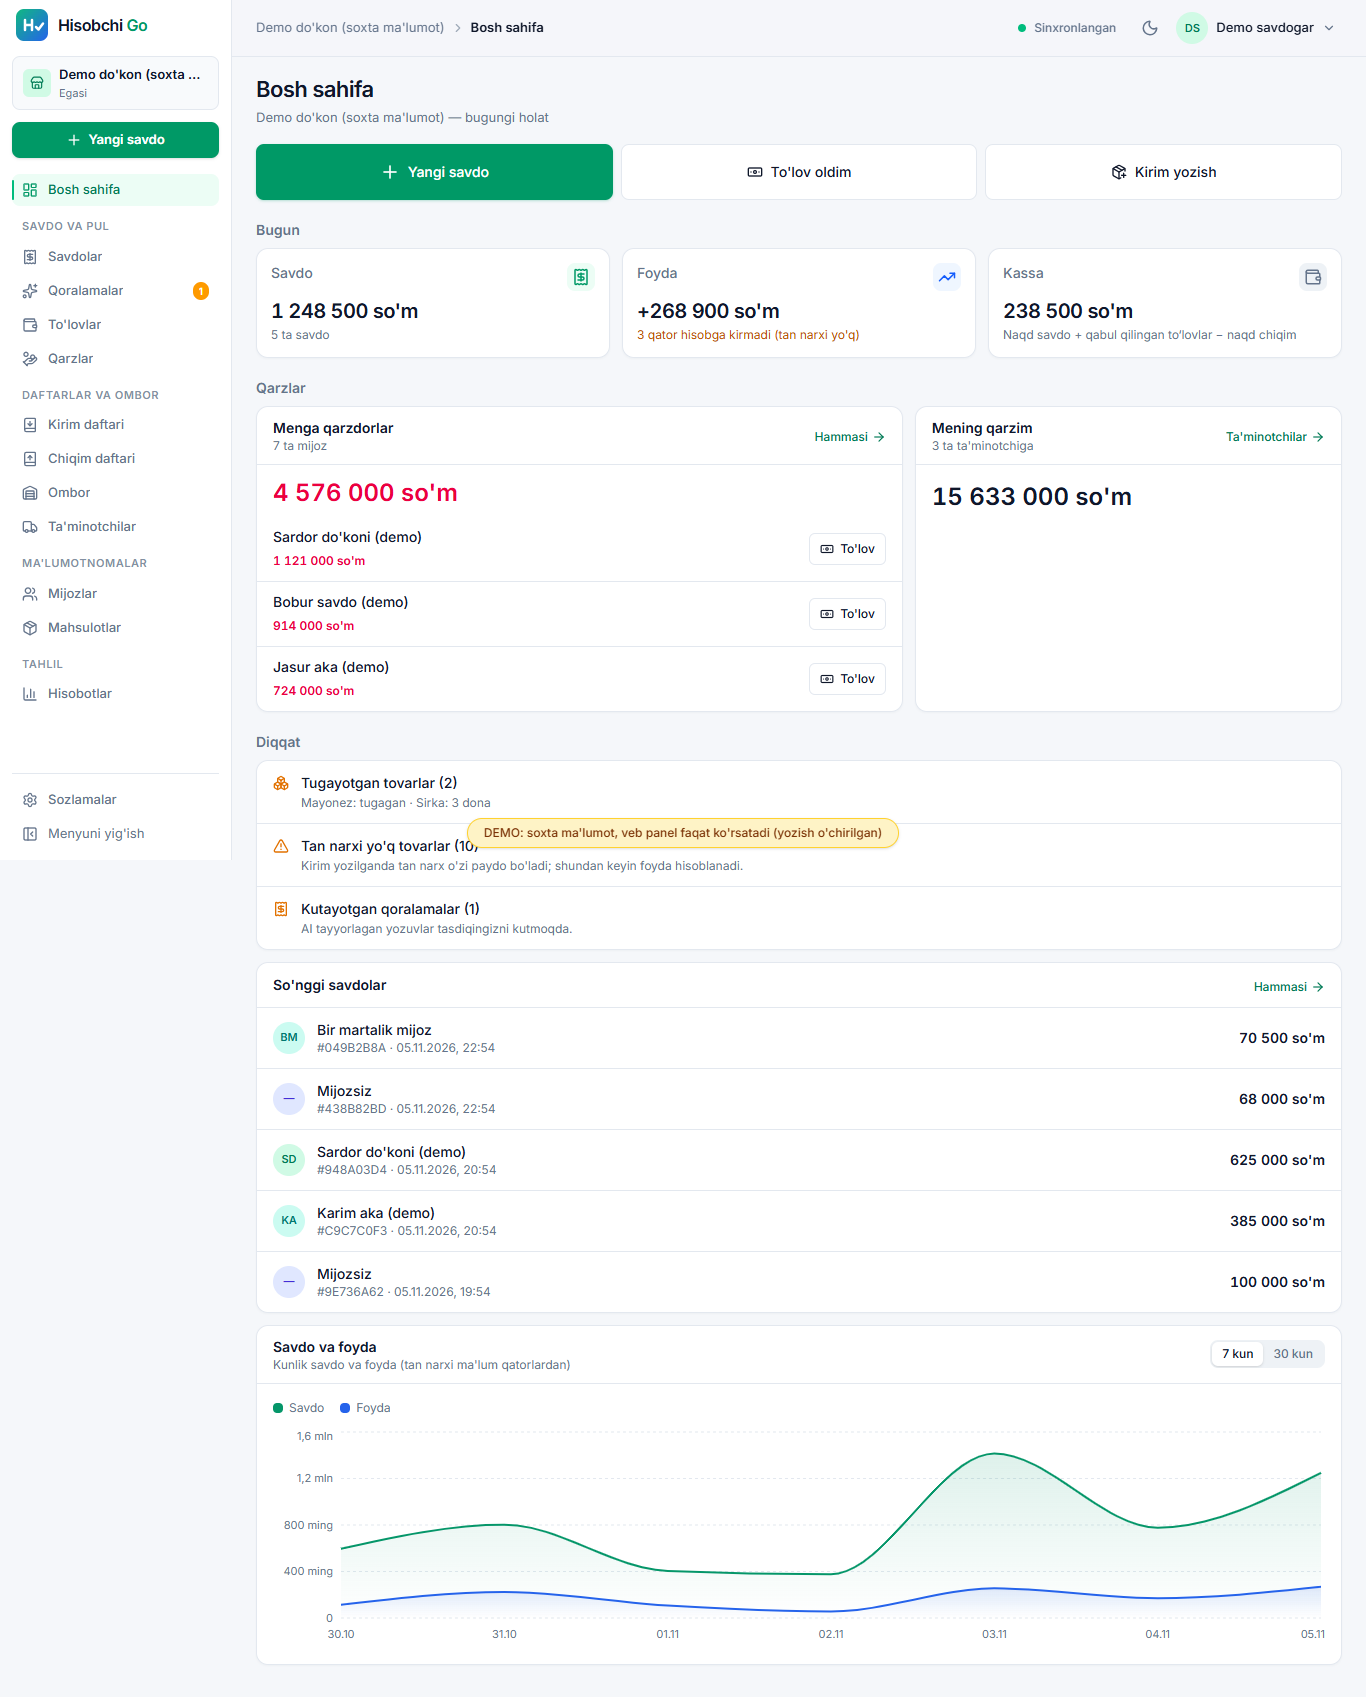
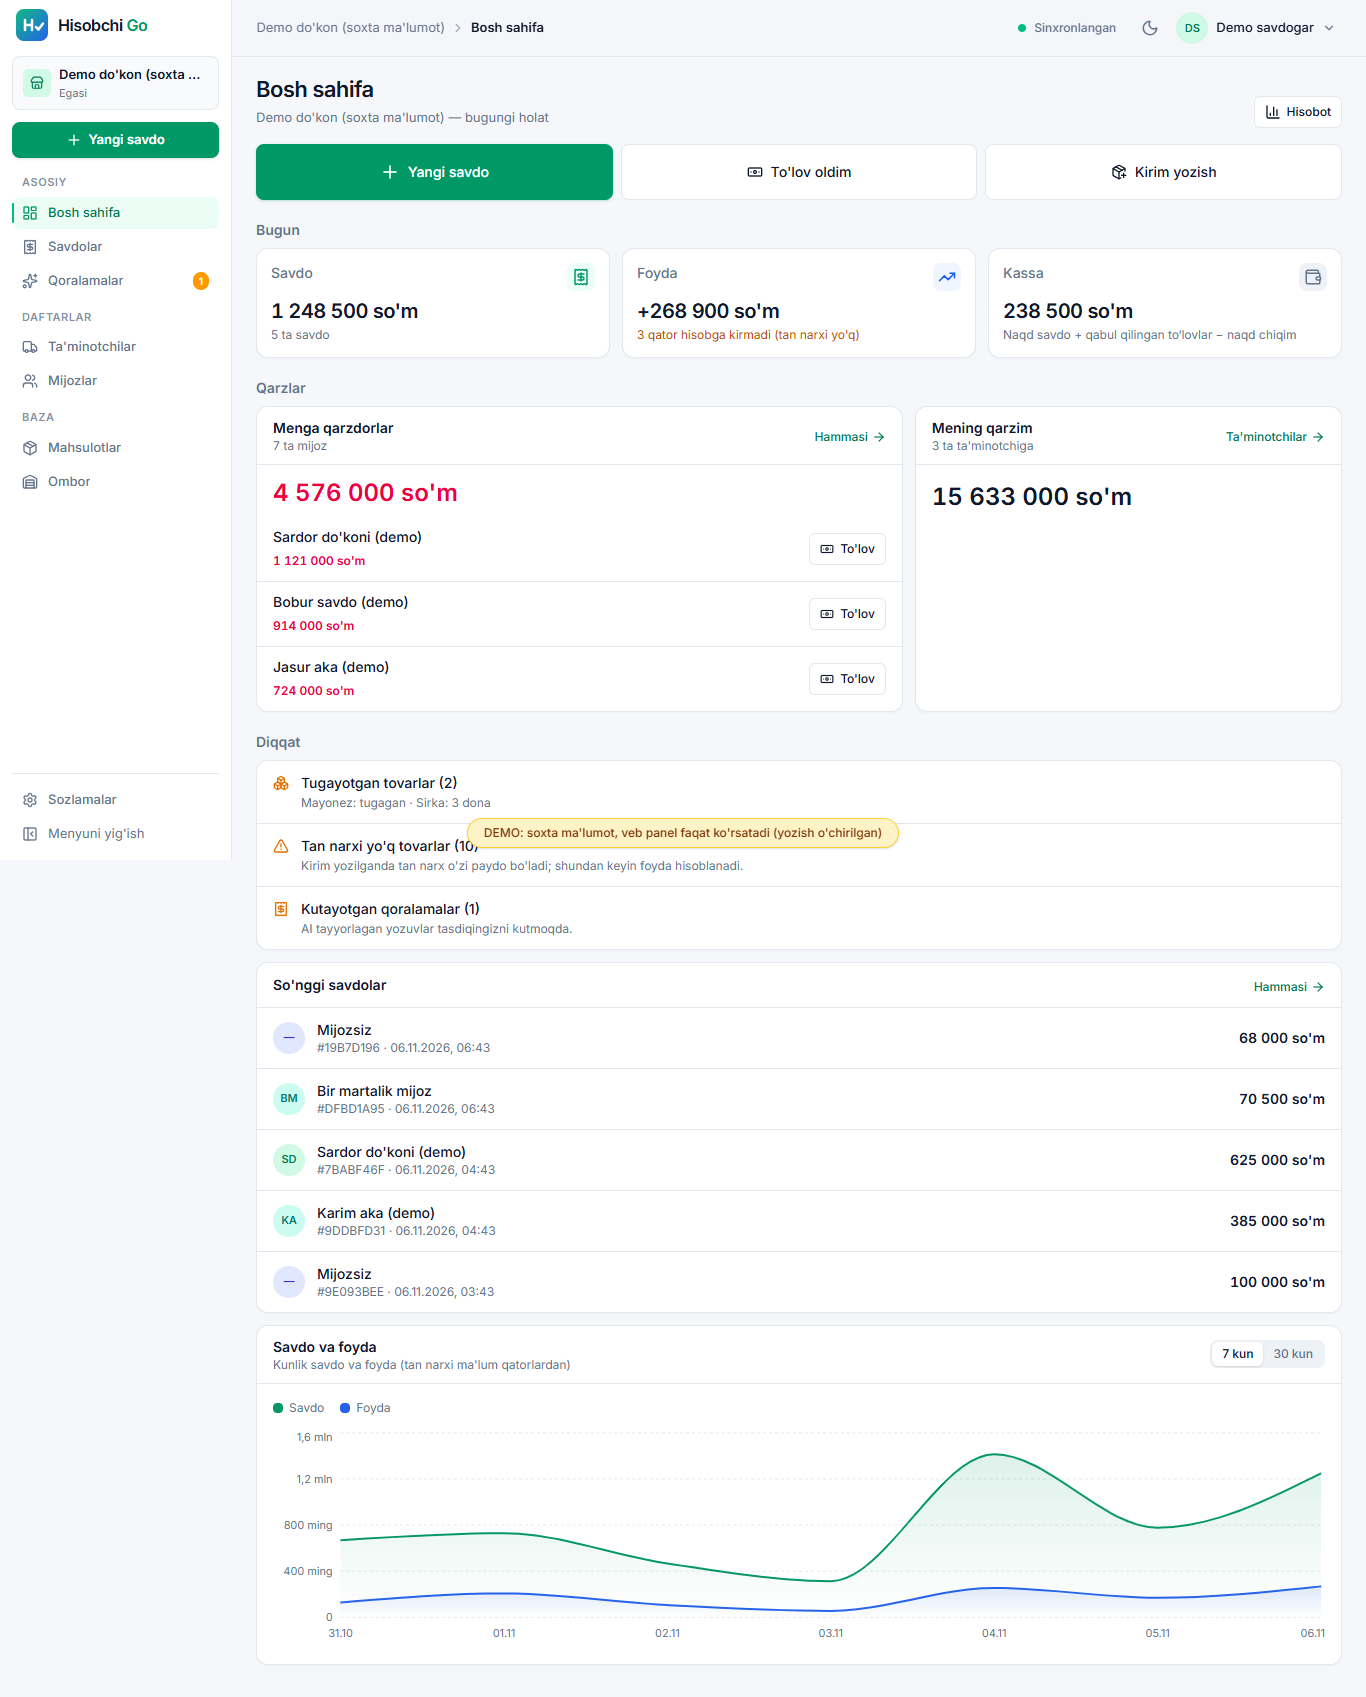
MENYU M6: Demo, skrinshotlar (oldin/keyin), hujjat (#29)
* M6: demo ma'lumot (ombor harakatlari), skrinshot skripti yangi sahifalar uchun

* M6: demo, skrinshotlar (oldin/keyin), ARXITEKTURA/LOKAL/HOLAT-MENYU

---------

diff --git a/apps/web/src/lib/demo/seed.ts b/apps/web/src/lib/demo/seed.ts
@@ -95,7 +95,7 @@ export function buildDemoTables(now: Date = new Date(), newId: () => string = ()
   const draftCalc = calculateDocument(draftLines.map((l) => ({ qtyMilli: milli(l.qty), unitPrice: BigInt(pid(l.product).meta.salePrice) })));
   const dilnoza = customers.find((c) => c.key === 'dilnoza');
 
-  return {
+  const tables: Tables = {
     shops: [shop],
     shop_members: [{ shop_id: shopId, user_id: DEMO_USER_ID, role: 'owner', created_at: shop.created_at }],
     customers: [
@@ -153,4 +153,20 @@ export function buildDemoTables(now: Date = new Date(), newId: () => string = ()
       },
     ],
   };
+
+  // Ombor harakatlari (Chiqim ko'rinishi): har savdo qatori — 'sale' harakati; ikkita inventarizatsiya tuzatishi
+  const docAt = new Map(tables.documents!.map((d) => [d.id as string, d.created_at as string]));
+  const saleMoves: Row[] = tables.document_lines!
+    .filter((l) => l.product_id && docAt.has(l.document_id as string))
+    .map((l) => ({
+      id: newId(), shop_id: shopId, product_id: l.product_id, kind: 'sale', qty_milli: (-BigInt(l.qty_milli as string)).toString(),
+      document_id: l.document_id, note: null, created_at: docAt.get(l.document_id as string),
+    }));
+  const someProducts = products.slice(0, 2);
+  const adjustments: Row[] = someProducts.map((p, i) => ({
+    id: newId(), shop_id: shopId, product_id: p.id, kind: 'adjustment', qty_milli: (i === 0 ? -2000n : 1000n).toString(),
+    document_id: null, note: i === 0 ? 'Inventarizatsiya: singan' : 'Inventarizatsiya: ortiqcha chiqdi', created_at: iso(-2),
+  }));
+  tables.stock_movements = [...saleMoves, ...adjustments];
+  return tables;
 }

diff --git a/docs/QARORLAR.md b/docs/QARORLAR.md
@@ -86,6 +86,7 @@ Har qaror: sana, nima, nega. Yangi qaror pastga qo'shiladi.
 - STT/OCR: Gemini sinaladi (H2, T7); natija bo'yicha tanlanadi.
 - Narx: 1-oy bepul, keyin ~200 000 so'm/oy — faraz, H3 va 50 suhbatda tekshiriladi.
 - Prototip kodi egaligi: Humoyun bilan yozma kelishuv kerak.
+| 06.11.2026 | **Demo va skrinshotlar (MENYU-DAFTAR M6):** demo seed'ga `stock_movements` qo'shildi (har savdo qatori — «sale» harakati, ikki inventarizatsiya tuzatishi), shunda Ombor → Chiqim demoda ko'rinadi. `npm run screenshots` yangi sahifalar ro'yxati bilan (mijoz va ta'minotchi varag'i ro'yxatdan birinchi qatorni bosib olinadi; mavjud bo'lmagan sahifa o'tkaziladi). `docs/ekranlar/` oldin/keyin yangilandi | Asoschi talabi |
 | 06.11.2026 | **Ombor ichida Kirim va Chiqim (MENYU-DAFTAR M5):** `/warehouse` da uch ko'rinish (`?tab=`): **Qoldiq** (avvalgi jadval, «Tuzatish» = inventarizatsiya, manfiy qoldiq ogohlantirishi), **Kirim** (kirimlar kun bo'yicha, davr/ta'minotchi/qidiruv, tovar qatorlari, «Kirim yozish»), **Chiqim** (savdodan chiqqan tovar `stock_movements` dan: savdo, bekor qilingan savdo, tuzatish = yo'qotish/ortiqcha; tovar bo'yicha davr jami). Eski Kirim/Chiqim daftari mantig'i (davr tanlash, kun guruhlash, bekor qilinganlar jamga kirmaydi) ko'chirildi, qayta yozilmadi; har ko'rinishda «Eksport» (CSV). `/books/in` va `/books/out` → `/warehouse?tab=in` / `?tab=out`. Boshlang'ich qarz Kirim ro'yxatiga va jamiga kirmaydi (ta'minotchi varag'ida alohida qator). Kirim tabida kirimni bekor qilish yo'q: u ta'minotchi varag'ida (teskari yozuv) | Asoschi talabi: kirim va chiqim ombor funksiyasi |
 | 06.11.2026 | **Ta'minotchilar daftari (MENYU-DAFTAR M4):** `/suppliers` = «Mening qarzim» kartasi (jami qarz, qarzim bor ta'minotchilar soni) + ro'yxat (qidiruv, filtr Qarzim bor/Hammasi/Arxiv, tartib); ta'minotchini bosganda `/suppliers/[id]` — LedgerSheet. «Kirim yozish» (`/purchases/new`, varaqdan ta'minotchi oldindan tanlangan) va «To'lov berdim» (`record_supplier_payment`, sana, usul, izoh; qarzdan oshmaydi) shu yerda. Avvalgi sahifaning barcha imkoniyati saqlandi: qo'shish (boshlang'ich qarz bilan), tahrirlash, arxivlash/qaytarish (varaq tepasida), kirim qo'shish. Kirim va boshlang'ich qarzni bekor qilish `reverse_purchase`, to'lovni `void_supplier_payment` (teskari yozuv). Ro'yxat qarzi ikki yo'l bilan tekshiriladi (`supplierTotals` va core `partnerBalance`) | Asoschi talabi |
 | 06.11.2026 | **Mijozlar daftari (MENYU-DAFTAR M3):** `/customers` = qarz bo'yicha ro'yxat + umumiy qarz kartasi (Jami qarz, Qarzdorlar, 30 kundan oshgan qarz); mijozni bosganda `/customers/[id]` — LedgerSheet. «Qarzlar» va «To'lovlar» bo'limlari shu yerga ko'chdi: qarz filtri (`?filter=debt`), «To'lov oldim» (ro'yxat tepasida va varaqda), to'lovni bekor qilish (varaq qatorida, teskari yozuv). «Yangi savdo» varaqdan mijoz oldindan tanlangan holda ochiladi (`/sales/new?customer=`) | Asoschi talabi |

diff --git a/docs/ARXITEKTURA.md b/docs/ARXITEKTURA.md
@@ -196,3 +196,13 @@ Hozir faqat bitta manbali raqam bor: Aisha STT ~425 so'm/daqiqa (loyiha hujjatid
 - Bluetooth printer modeli (savdogarlar qaysi printerdan foydalanadi).
 - Google Play va Apple hisoblari narxi va kim ochishi.
 - Veb (PC) versiya kerakli darajada qulay bo'lishi uchun qaysi ekranlar alohida moslanadi.
+
+## Veb panel: menyu va daftar (MENYU-DAFTAR, 06.11.2026)
+
+Menyu: **Asosiy** (Bosh sahifa, Savdolar, Qoralamalar) · **Daftarlar** (Ta'minotchilar, Mijozlar) · **Baza** (Mahsulotlar, Ombor) · Sozlamalar. To'lovlar, Qarzlar, Kirim/Chiqim daftari va Hisobotlar bo'lim emas: to'lov va qarz mijoz/ta'minotchi varag'ida, kirim va chiqim Ombor ichida (`/warehouse?tab=in|out`), hisobot `/dashboard/report` (Bosh sahifadagi tugma). Eski URL'lar yo'naltiriladi (`lib/redirects.ts`, `/books/*` — `books/[kind]/page.tsx`).
+
+Daftar varag'i:
+- **core** `packages/core/src/ledger.ts`: `ledgerRows` (qator = kun; Eski → Ostatka zanjiri; bekor qilingan qatorda qoladi, jamiga kirmaydi; ochilish qoldig'i birinchi qator va Tovar jamiga kirmaydi), `assertLedgerMatches`; `aged-debt.ts`: 30+ kunlik qarz (FIFO).
+- **ikkinchi yo'l**: PostgreSQL `partner_statement` (butun davr Ostatka'si); mos kelmasa varaq yozishni to'xtatadi. SQL'ga yetib bo'lmasa core `partnerBalance` bilan mahalliy tekshiruv.
+- **web**: `components/ledger/LedgerSheet.tsx` (bitta komponent, mijoz/ta'minotchi sozlamasi `lib/ledgerView.ts`), ulagichlar `CustomerLedger.tsx` / `SupplierLedger.tsx`, ma'lumot `lib/data/partnerLedger.ts` va `supplierPayments.ts`, ro'yxatlar `lib/customerBook.ts` / `lib/supplierBook.ts`. Yangi jadval va migratsiya yo'q.
+- **ruxsat**: `can(role, action)` (`lib/permissions.ts`) — yagona nuqta; rollar keyin qo'shilganda faqat shu jadval o'zgaradi.

diff --git a/docs/HOLAT-MENYU.md b/docs/HOLAT-MENYU.md
@@ -1,0 +1,18 @@
+# MENYU-DAFTAR holati (06.11.2026)
+
+Har bosqich `main` dan alohida PR, hech biri merge qilinmagan. Migratsiya **yo'q** (hammasi mavjud jadval/RPC'lar).
+
+| Bosqich | PR | Holat |
+|---|---|---|
+| M1 Menyu va yo'naltirishlar, `can()` | #24 | tayyor |
+| M2 LedgerSheet + core `ledgerRows`, ikkinchi yo'l | #25 | tayyor |
+| M3 Mijozlar daftari (+ `agedDebt`) | #26 | tayyor |
+| M4 Ta'minotchilar daftari | #27 | tayyor |
+| M5 Ombor ichida Kirim/Chiqim | #28 | tayyor |
+| M6 Demo, skrinshot, hujjat | M6 PR | tayyor |
+
+Merge tartibi: M1 → M2 → M3 → M4 → M5 → M6. M2–M5 umumiy fayllari bir xil matn bilan; konflikt faqat `docs/QARORLAR.md` oxirida (ikkala tomonni qoldiring) va M3 da `packages/core/src/index.ts` (M2+M3 qatorlari).
+Birlashtirilgan holat (M1–M6) lokalda `npm run typecheck` va `npm test` yashil, demo brauzerda ko'rildi.
+
+Sinalmagan: haqiqiy Supabase (tez yozuv: `post_sale` + `record_payment`, ta'minotchi to'lovi, bekor qilishlar, `partner_statement` solishtiruvi), haqiqiy telefon, Chiqim tabi haqiqiy `stock_movements` bilan, Web Share (hozir faqat nusxalash/chop etish).
+Ochiq masalalar: mijoz uchun boshlang'ich qarz (ochilish qoldig'i) yo'q — 009 faqat ta'minotchi uchun, mijozga alohida migratsiya kerak (asoschi qarori); ta'minotchida tezkor qatordan tovar summasi yozib bo'lmaydi (`post_purchase` tovar talab qiladi).

diff --git a/docs/ekranlar/README.md b/docs/ekranlar/README.md
@@ -2,8 +2,9 @@
 
 Soxta demo ma'lumot bilan, telefon (390 px) va kompyuter (1366 px) ko'rinishida. Haqiqiy mijoz, telefon raqami va qarz yo'q.
 
-- `*-oldin.png`: `main` holati (PANEL-1/2 PR'larisiz), kengaytirilgan demo ma'lumot bilan.
-- `*-keyin.png`: PANEL-1/2 PR'lari (#19 Yangi savdo, #20 Bosh sahifa, #21 Ta'minotchi va kirim, #22 Birliklar) birlashtirilgan holat. Bu yig'ma faqat lokalda sinov uchun yig'ilgan, `main` ga yozilmagan.
+- `*-oldin.png`: `main` holati (MENYU-DAFTAR PR'larisiz). `mijoz-daftari`, `taminotchi-daftari` va `hisobot` oldin holatida yo'q yoki eski ko'rinishda.
+- `*-keyin.png`: MENYU-DAFTAR M1–M5 PR'lari (#24–#28) birlashtirilgan holat. Bu yig'ma faqat lokalda skrinshot uchun yig'ilgan, `main` ga yozilmagan.
+- `kirim-daftari-*-oldin.png` — eski Kirim daftari (endi `ombor-kirim-*-keyin.png`).
 
 Qayta olish:
 

diff --git a/docs/LOKAL.md b/docs/LOKAL.md
@@ -59,3 +59,7 @@ Remove-Item -Recurse -Force node_modules, apps/web/.next
 npm ci
 npm run check
 ```
+
+## Skrinshotlar (demo)
+
+`npm run screenshots -- keyin` (yoki `oldin`) telefon va kompyuter ko'rinishida demo sahifalarini `docs/ekranlar/` ga yozadi: Bosh sahifa, Hisobot, Yangi savdo, Mijozlar va mijoz varag'i, Ta'minotchilar va varaq, Kirim yozish, Ombor (Qoldiq/Kirim/Chiqim), Sozlamalar. Mavjud bo'lmagan sahifa (eski holat) o'tkazib yuboriladi. Chrome yoki Edge o'rnatilgan bo'lishi kerak (`CHROME_PATH`); port band bo'lsa `DEMO_PORT`.
